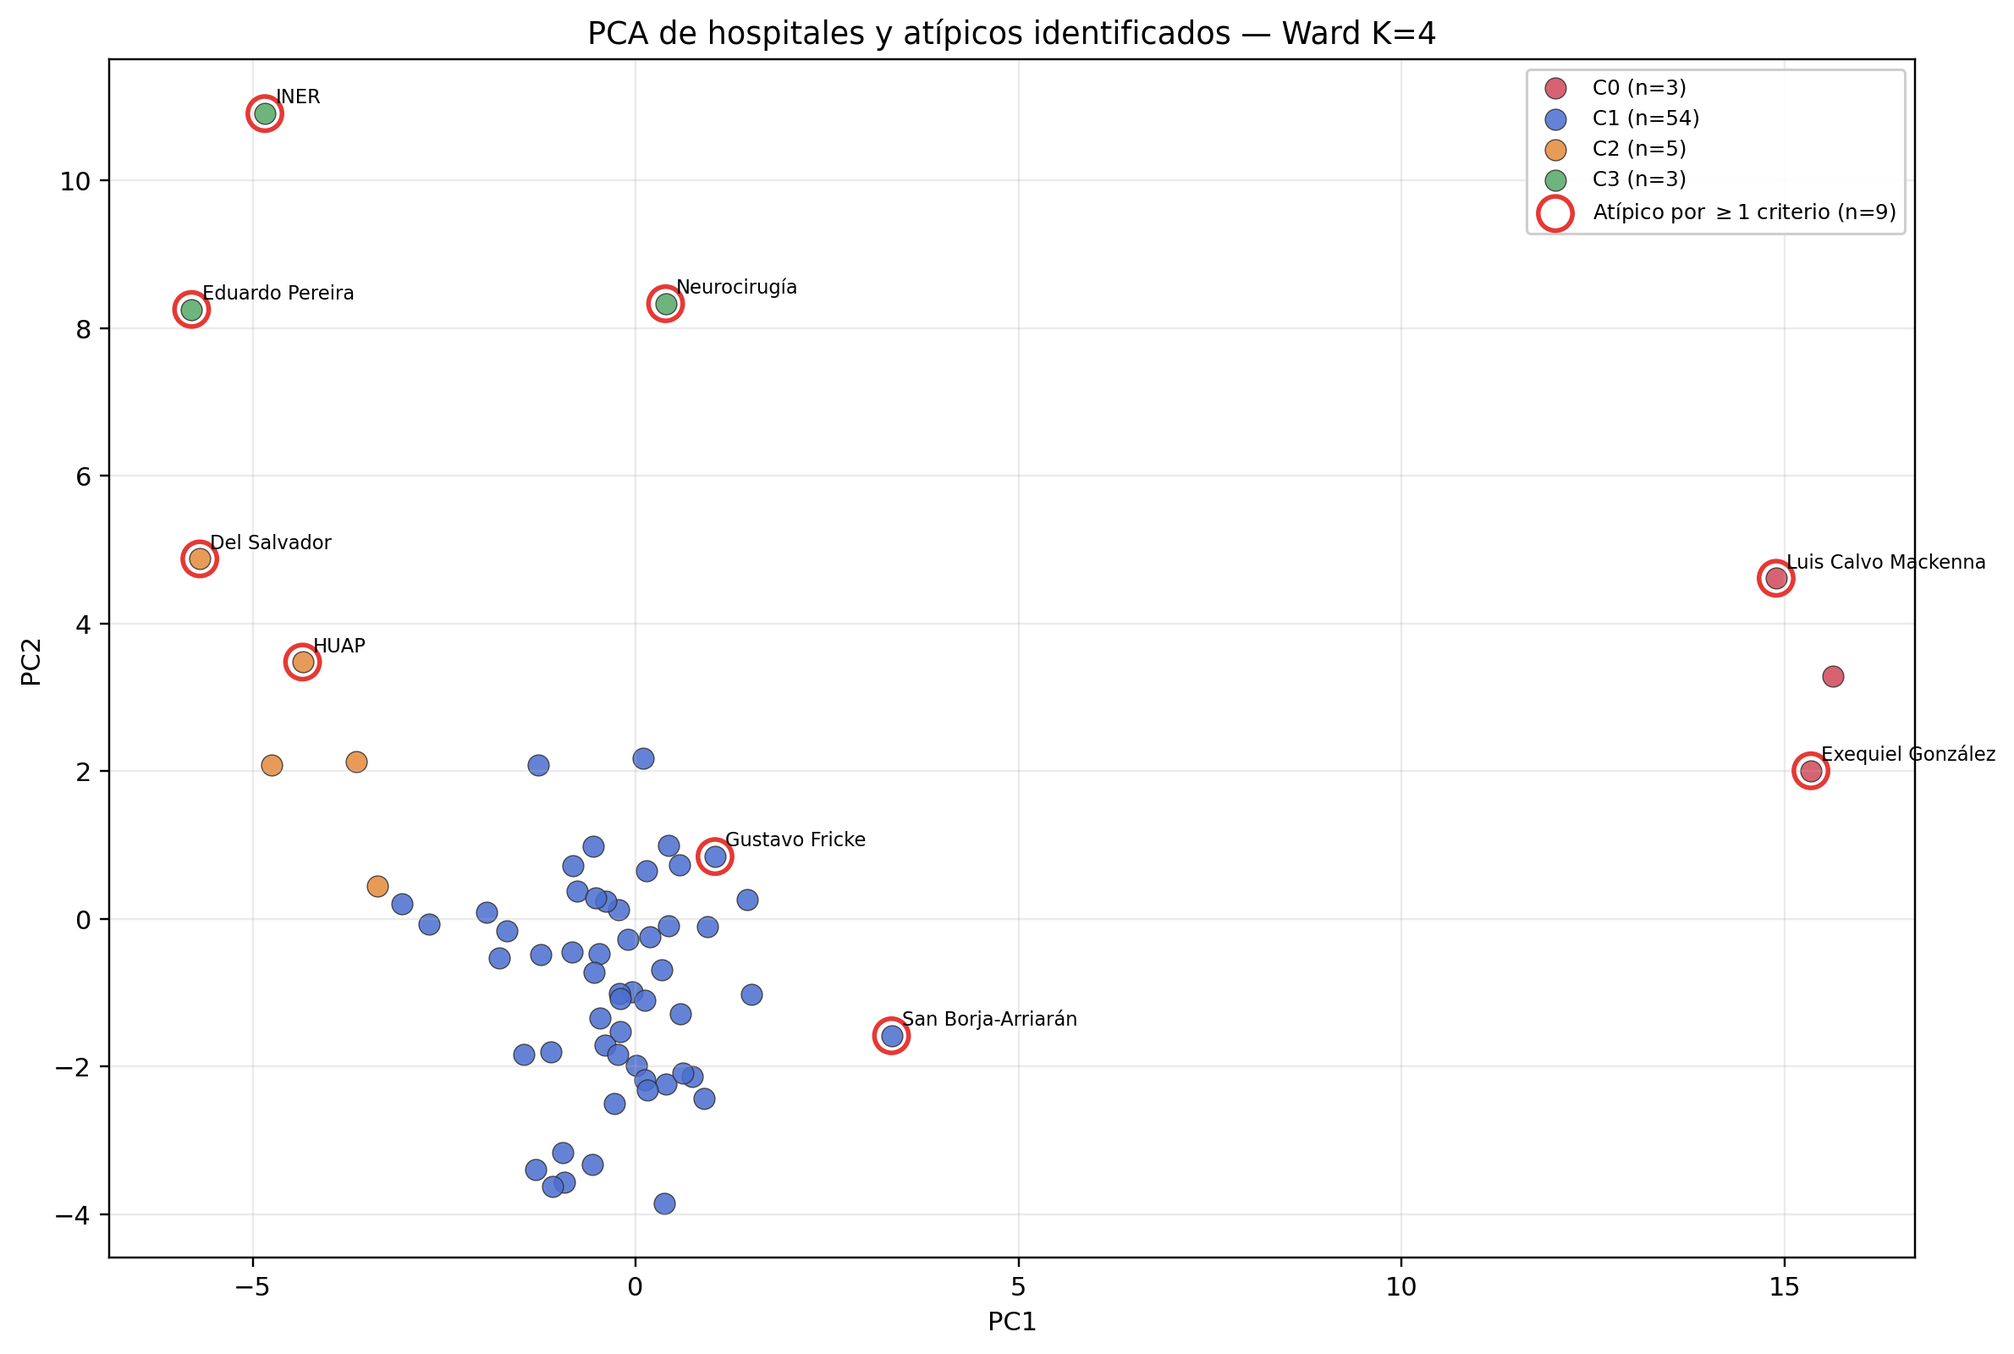
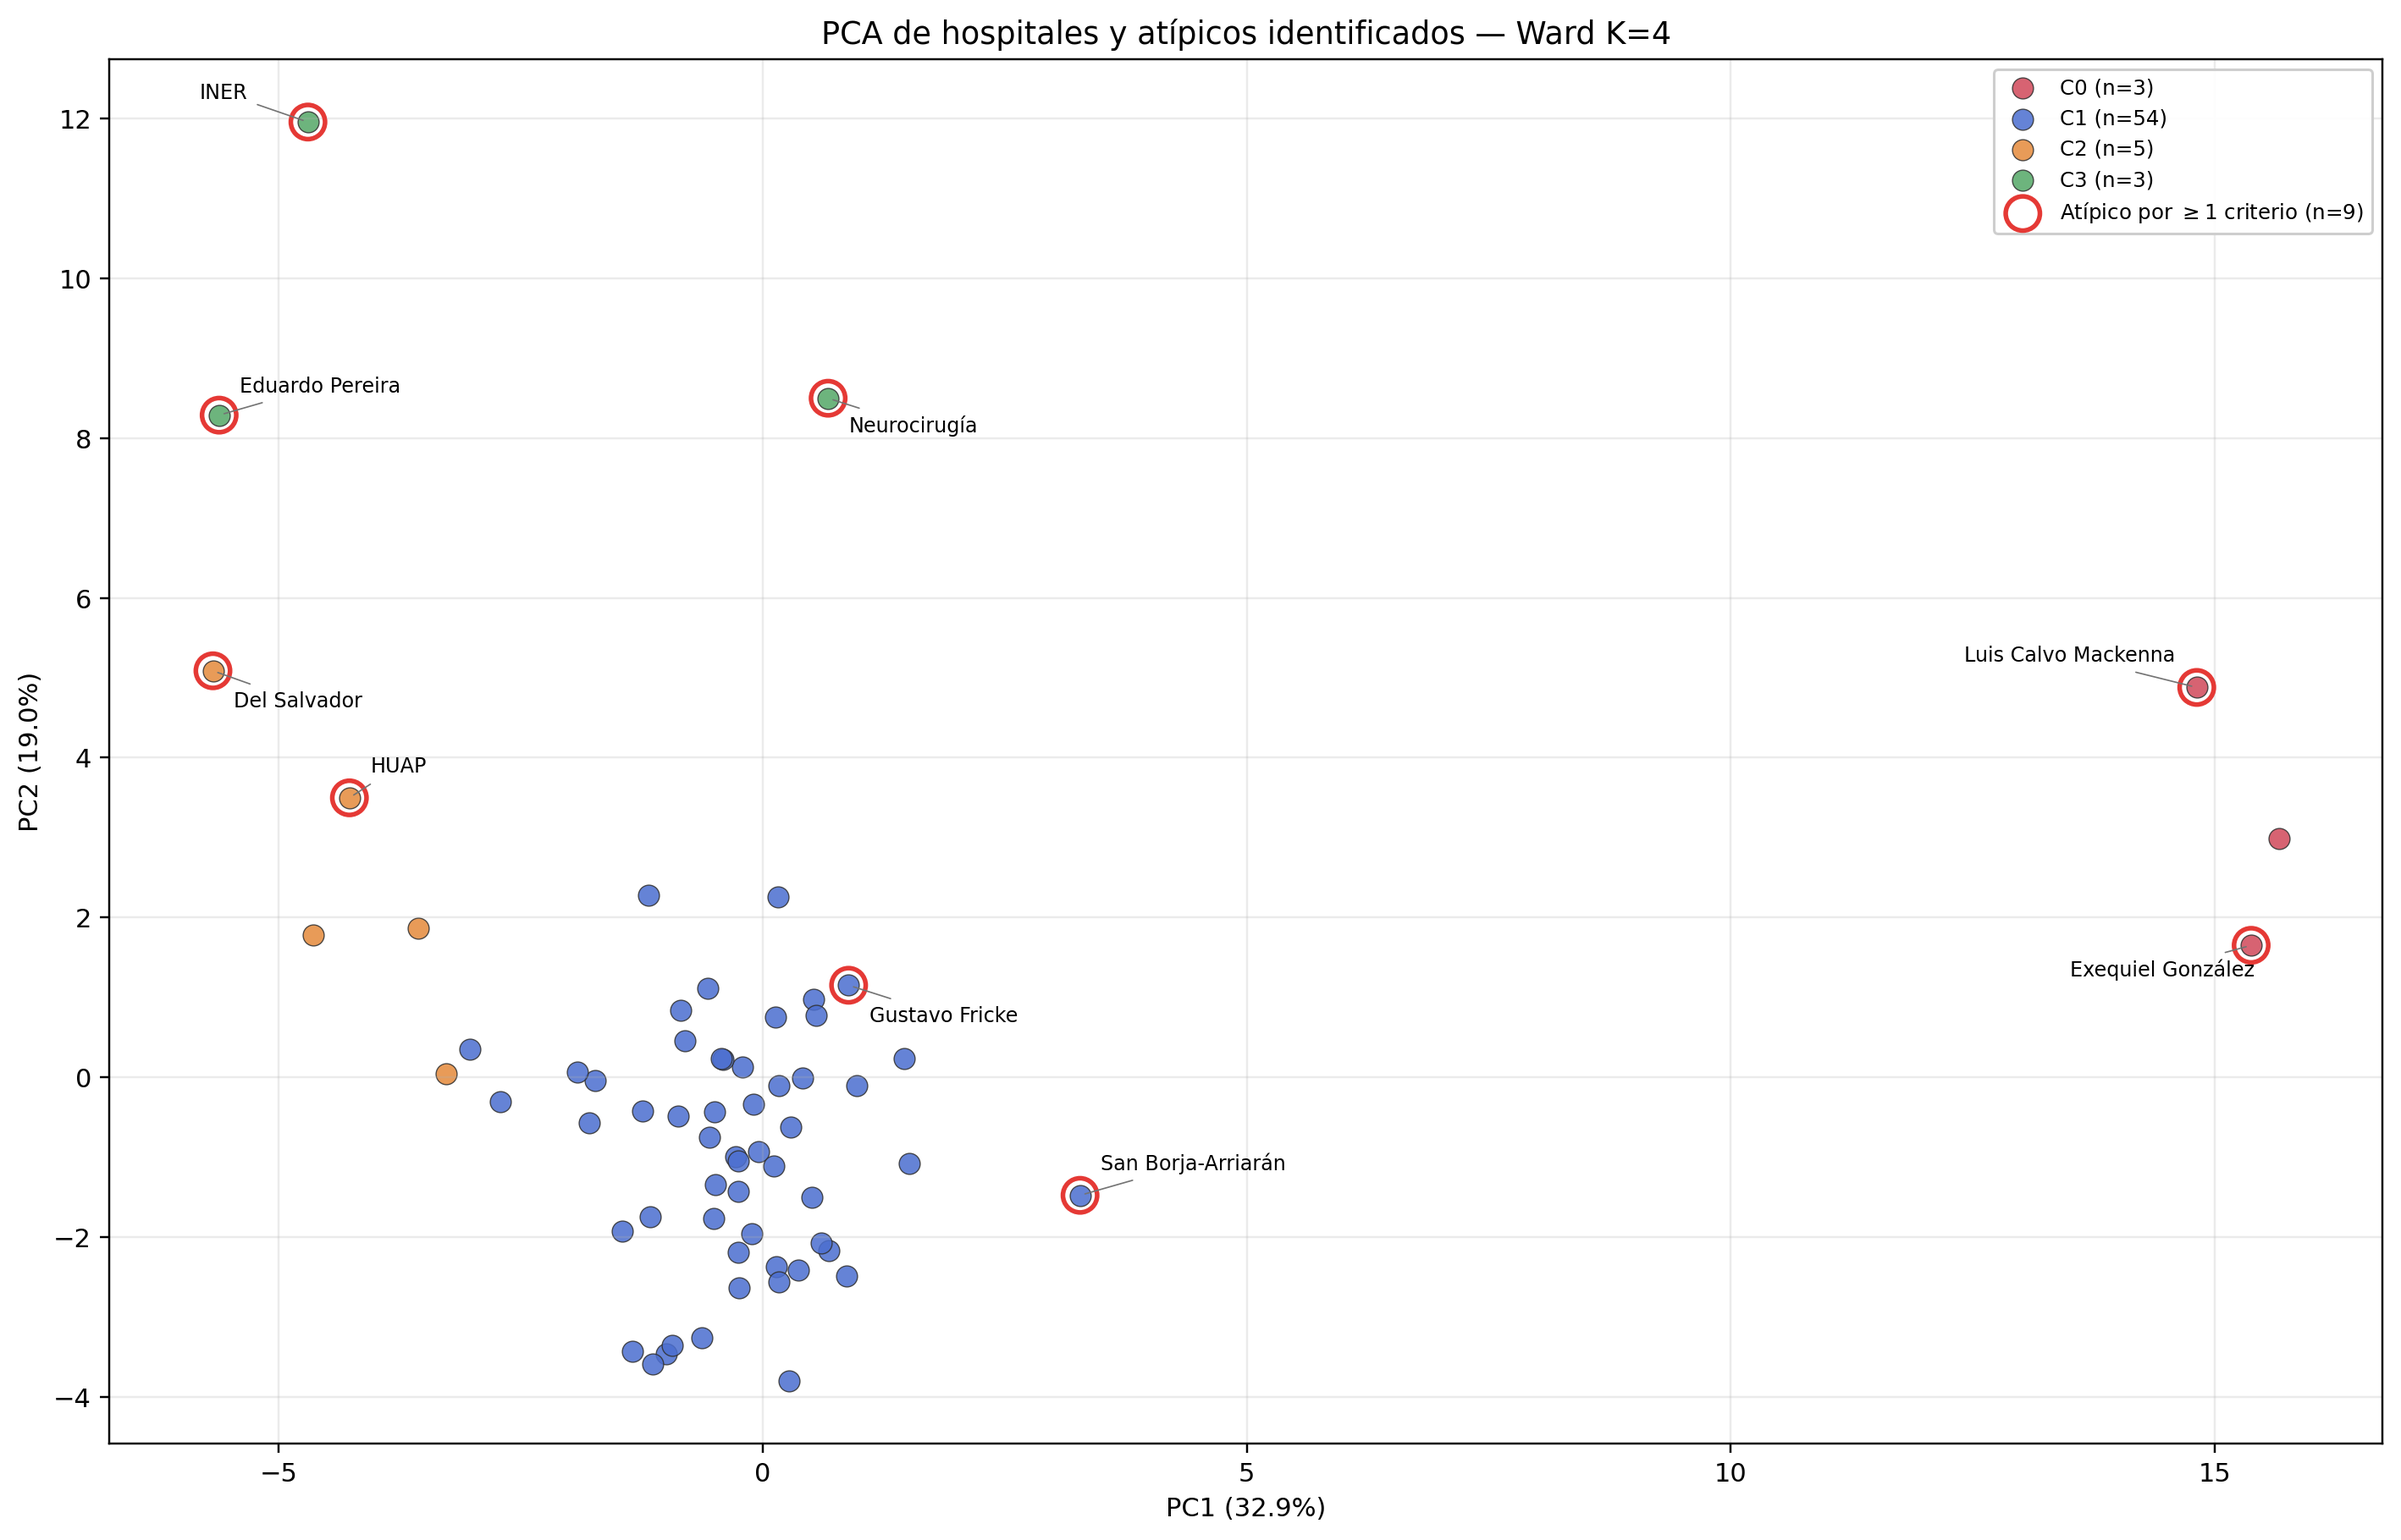
docs(discusion): Regeneracion figures
- Corrige scripts de regeneracion de figuras
- Regenera figuras

diff --git a/scripts/regenerar_figuras_outliers.py b/scripts/regenerar_figuras_outliers.py
@@ -17,10 +17,21 @@ from src.utils.io import PROCESSED_DIR, TABLES_DIR
 from src.modeling.referencia import COLS_DROP_CLUSTERING, LOG1P_COLS
 
 RANDOM_STATE = 42
-OUTPUT_PATH = ROOT / "formato-tesis" / "Tesis_Reinaldo_Pacheco_Editable" / "img" / "atipicos_pca.png"
+OUTPUT_PATH = ROOT / "TT_Reinaldo_Pacheco" / "img" / "atipicos_pca.png"
 CLUSTER_COLORS = {0: "#d1495b", 1: "#4c6fd0", 2: "#e58b3c", 3: "#55a868"}
 CLUSTER_LABELS = {0: "C0 (n=3)", 1: "C1 (n=54)", 2: "C2 (n=5)", 3: "C3 (n=3)"}
 SHORT_NAMES = {"106102": "Eduardo Pereira", "112104": "Neurocirugía", "111195": "HUAP", "112103": "INER", "113130": "Exequiel González", "112102": "Luis Calvo Mackenna", "112100": "Del Salvador", "111100": "San Borja-Arriarán", "107100": "Gustavo Fricke"}
+LABEL_OFFSETS = {
+    "106102": (8, 9),
+    "112104": (8, -13),
+    "111195": (8, 10),
+    "112103": (-42, 9),
+    "113130": (-70, -12),
+    "112102": (-90, 10),
+    "112100": (8, -14),
+    "111100": (8, 10),
+    "107100": (8, -14),
+}
 
 
 def main() -> None:
@@ -42,16 +53,30 @@ def main() -> None:
     if len(outlier_ids) != 9:
         raise ValueError(f"Se esperaban 9 hospitales marcados; se encontraron {len(outlier_ids)}.")
 
-    coordinates = PCA(n_components=2, random_state=RANDOM_STATE).fit_transform(X)
-    figure, axis = plt.subplots(figsize=(11, 7.4))
+    pca = PCA(n_components=2, random_state=RANDOM_STATE).fit(X)
+    coordinates = pca.transform(X)
+    figure, axis = plt.subplots(figsize=(13, 8.4))
     for cluster, label in CLUSTER_LABELS.items():
         mask = labels == cluster
         axis.scatter(coordinates[mask, 0], coordinates[mask, 1], s=66, color=CLUSTER_COLORS[cluster], edgecolors="#303030", linewidth=0.45, alpha=0.86, label=label)
     outlier_indices = [index for index, hospital_id in enumerate(ids) if hospital_id in outlier_ids]
     axis.scatter(coordinates[outlier_indices, 0], coordinates[outlier_indices, 1], s=175, facecolors="none", edgecolors="#e53935", linewidth=1.8, label="Atípico por $\\geq 1$ criterio (n=9)", zorder=4)
     for index in outlier_indices:
-        axis.annotate(SHORT_NAMES.get(ids[index], ids[index]), (coordinates[index, 0], coordinates[index, 1]), xytext=(4, 4), textcoords="offset points", fontsize=7.4, zorder=5)
-    axis.set(title="PCA de hospitales y atípicos identificados — Ward K=4", xlabel="PC1", ylabel="PC2")
+        hospital_id = ids[index]
+        axis.annotate(
+            SHORT_NAMES.get(hospital_id, hospital_id),
+            (coordinates[index, 0], coordinates[index, 1]),
+            xytext=LABEL_OFFSETS.get(hospital_id, (6, 6)),
+            textcoords="offset points",
+            fontsize=7.8,
+            zorder=5,
+            arrowprops={"arrowstyle": "-", "color": "0.45", "lw": 0.55},
+        )
+    axis.set(
+        title="PCA de hospitales y atípicos identificados — Ward K=4",
+        xlabel=f"PC1 ({pca.explained_variance_ratio_[0]:.1%})",
+        ylabel=f"PC2 ({pca.explained_variance_ratio_[1]:.1%})",
+    )
     axis.grid(True, alpha=0.25)
     axis.legend(loc="best", fontsize=8, framealpha=0.95)
     figure.tight_layout()

diff --git a/TT_Reinaldo_Pacheco/chapters/4-Discusion.tex b/TT_Reinaldo_Pacheco/chapters/4-Discusion.tex
@@ -293,7 +293,7 @@ respecto del núcleo generalista, pero no equivale a una validación externa.
 
 \begin{figure}[htbp]
 \centering
-\includegraphics[width=0.95\textwidth]{img/dendrograma_ward_nivel1.png}
+\includegraphics[width=\textwidth]{img/dendrograma_ward_nivel1.png}
 \caption{Dendrograma de agrupamiento jerárquico global del Nivel 1 mediante
 Ward aglomerativo. Los colores de las ramas identifican los cuatro clústeres de
 la partición reportada ($K=4$). Las ramas grises corresponden a fusiones entre
@@ -396,7 +396,7 @@ adicional de validez del clustering.
 
 \begin{figure}[htbp]
 \centering
-\includegraphics[width=0.85\textwidth]{img/pca_particiones_nivel1.png}
+\includegraphics[width=\textwidth]{img/pca_particiones_nivel1.png}
 \caption{Proyecciones bidimensionales PCA de la matriz institucional para las
 soluciones Ward con $K=2$, $K=3$ y $K=4$. Los valores de Silhouette mostrados
 corresponden a cada partición.}
@@ -496,7 +496,7 @@ solución óptima según estas métricas internas.
 
 \begin{figure}[htbp]
 \centering
-\includegraphics[width=0.78\textwidth]{img/metricas_nivel2.png}
+\includegraphics[width=\textwidth]{img/metricas_nivel2.png}
 \caption{Métricas internas del subclustering del Nivel 2 sobre los 54 hospitales
 del núcleo generalista. El mayor Silhouette corresponde a $K_{sub}=2$, mientras
 que el menor Davies--Bouldin corresponde a $K_{sub}=9$.}
@@ -517,7 +517,7 @@ alcance de la interpretación de los subgrupos.
 
 \begin{figure}[htbp]
 \centering
-\includegraphics[width=0.78\textwidth]{img/seleccion_nivel2.png}
+\includegraphics[width=\textwidth]{img/seleccion_nivel2.png}
 \caption{Balance de tamaños para las soluciones del Nivel 2. Se muestran los
 subclústeres con $n\geq4$, los grupos unitarios y los pares. En el panel, la
 línea vertical identifica la solución descriptiva reportada,
@@ -1518,8 +1518,8 @@ La Figura~\ref{fig:outliers-pca} presenta una proyección bidimensional mediante
 
 \begin{figure}[htbp]
 \centering
-\includegraphics[width=0.8\textwidth]{img/atipicos_pca.png}
-\caption{Proyección PCA de los establecimientos según la partición Ward $K=4$. Los círculos rojos corresponden a hospitales marcados por al menos un criterio de detección de atipicidad.}
+\includegraphics[width=\textwidth]{img/atipicos_pca.png}
+\caption{Proyección PCA de los establecimientos según la partición Ward $K=4$. PC1 y PC2 explican el 32{,}9\,\% y el 19{,}0\,\% de la varianza, respectivamente. Los círculos rojos corresponden a hospitales marcados por al menos un criterio de detección de atipicidad. La posición de San Borja--Arriarán y Gustavo Fricke en esta proyección bidimensional no resume todas las dimensiones empleadas en su criterio de distancia al centroide.}
 \label{fig:outliers-pca}
 \end{figure}
 

diff --git a/scripts/regenerar_figuras_nivel2.py b/scripts/regenerar_figuras_nivel2.py
@@ -10,7 +10,7 @@ ROOT = Path(__file__).resolve().parents[1]
 TABLES_DIR = ROOT / "reports" / "tables"
 SEARCH_PATH = TABLES_DIR / "busqueda_subclustering.csv"
 ASSIGNMENT_PATH = TABLES_DIR / "asignacion_jerarquica_final.csv"
-OUTPUT_DIR = ROOT / "formato-tesis" / "Tesis_Reinaldo_Pacheco_Editable" / "img"
+OUTPUT_DIR = ROOT / "TT_Reinaldo_Pacheco" / "img"
 
 
 def main() -> None:
